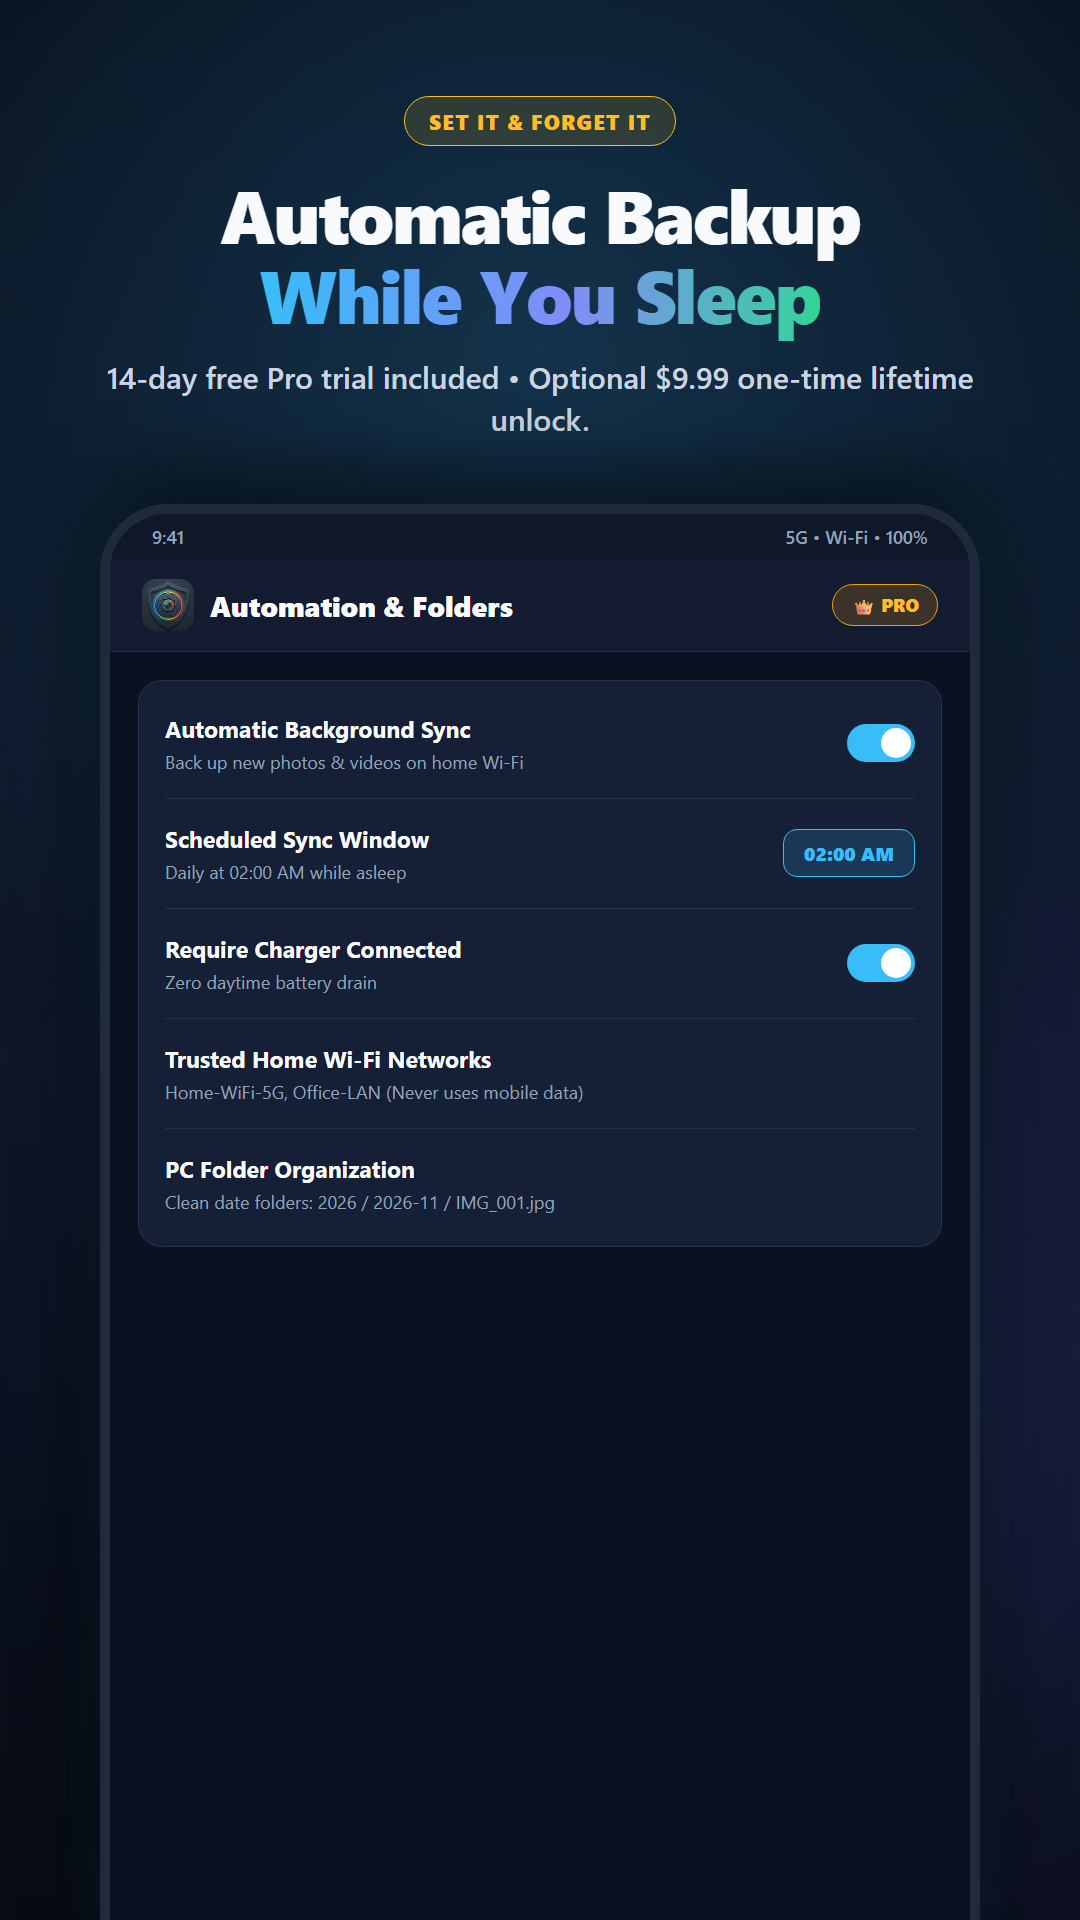
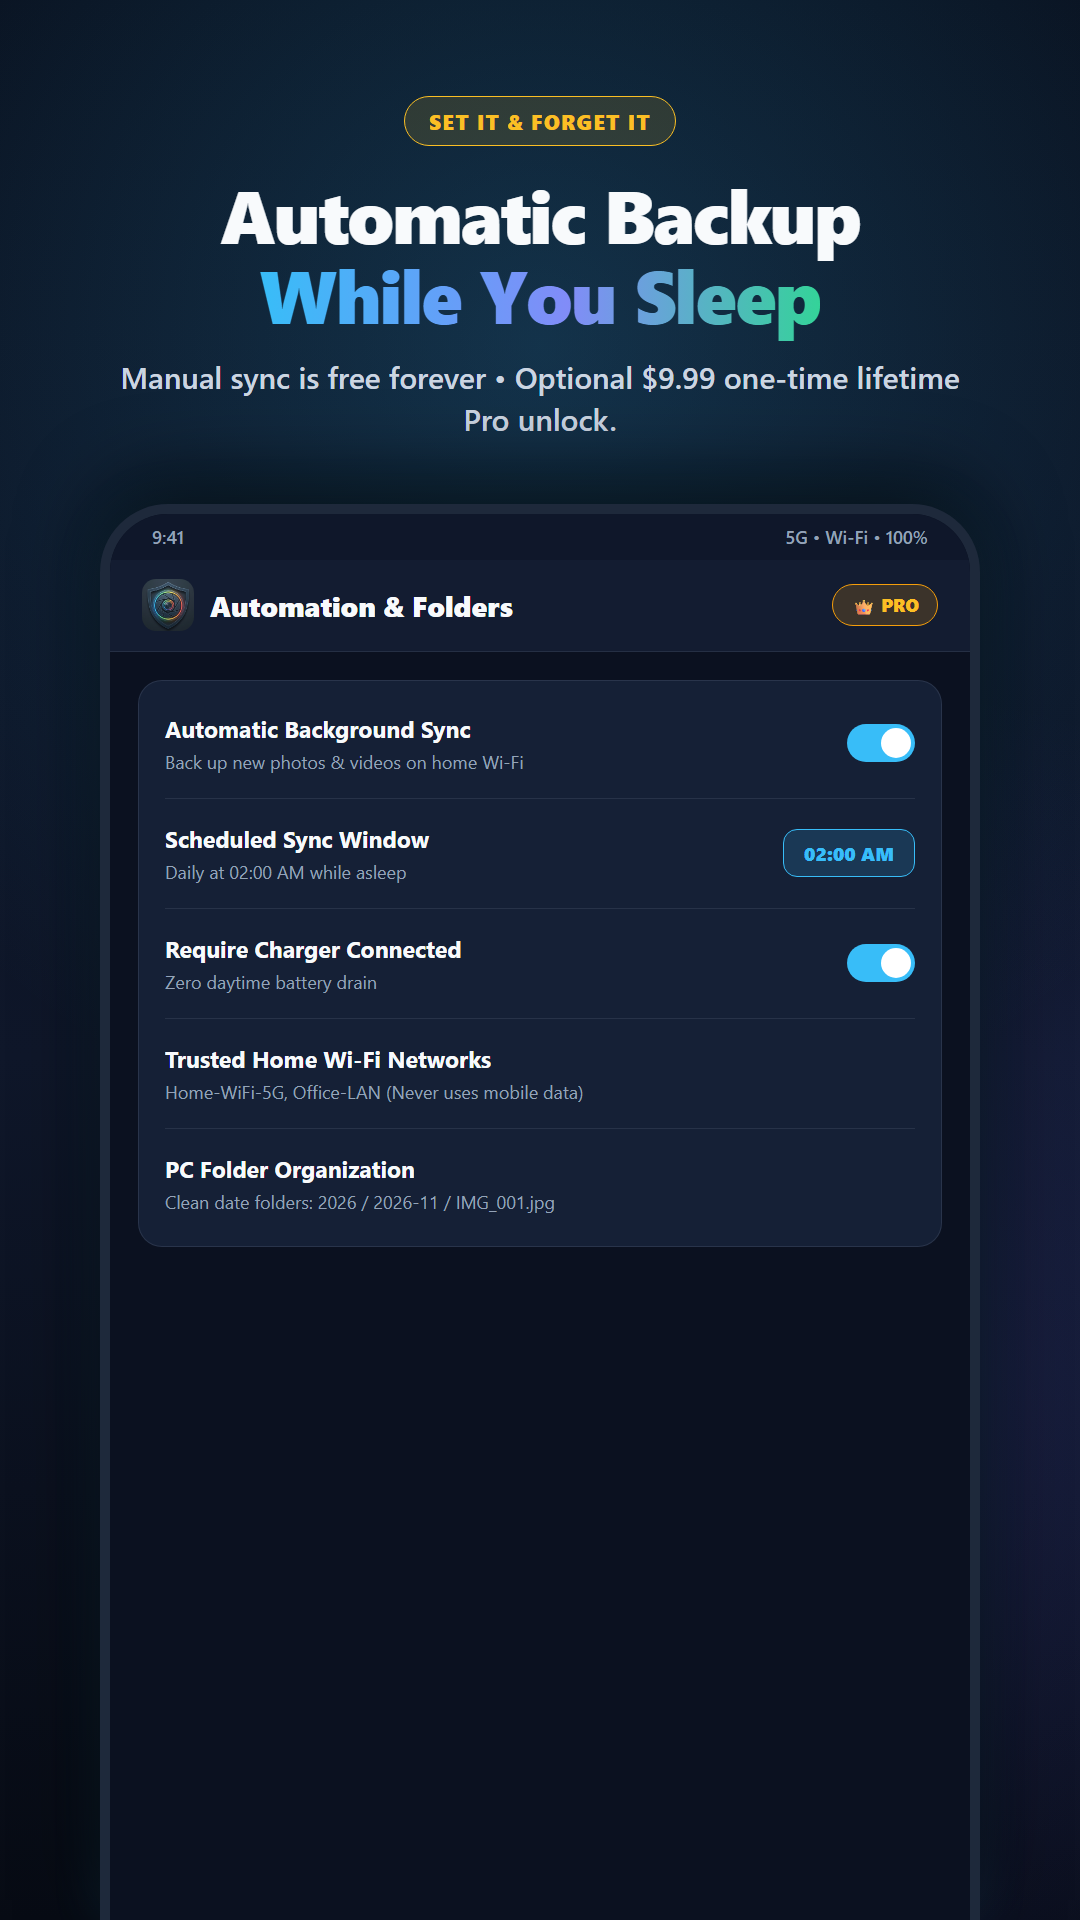
chore(web): remove 14-day trial copy from landing page and store graphics

Changed region(s): [[0.0917, 0.1875, 0.8861, 0.25]]

diff --git a/index.html b/index.html
@@ -4,7 +4,7 @@
     <meta charset="UTF-8">
     <meta name="viewport" content="width=device-width, initial-scale=1.0, maximum-scale=5.0, viewport-fit=cover">
     <title>SnapHaven — Wi-Fi Photo &amp; 4K Video Backup Straight to Your PC or Mac</title>
-    <meta name="description" content="Back up full-resolution phone photos and 4K videos straight to your Windows PC, Mac, or NAS over encrypted home Wi-Fi in 60 seconds. No Docker needed, zero cloud fees, 14-day free Pro trial.">
+    <meta name="description" content="Back up full-resolution phone photos and 4K videos straight to your Windows PC, Mac, or NAS over encrypted home Wi-Fi in 60 seconds. No Docker needed, zero cloud subscription fees.">
     <meta name="keywords" content="transfer photos to pc wifi, phone photo backup to computer, backup iphone photos to windows pc, android photo sync to pc, local photo backup no cloud, immich external library sync">
     
     <!-- Open Graph / Facebook / Twitter -->
@@ -67,7 +67,7 @@
                         <span>🛡 No Cloud • No Docker Required</span>
                     </span>
                     <a href="https://play.google.com/store/apps/details?id=app.snaphaven" target="_blank" rel="noopener noreferrer" class="badge-tag badge-emerald" style="cursor: pointer; border: none; font-family: inherit; text-decoration: none;">
-                        <span>🎁 14-Day Free Pro Trial on Google Play</span>
+                        <span>🟢 Now Live on Google Play</span>
                     </a>
                     <a href="#android-app" class="badge-tag badge-amber" style="cursor: pointer; border: none; font-family: inherit; text-decoration: none;">
                         <span>🍏 iOS Coming Soon</span>
@@ -264,10 +264,10 @@
                 </div>
 
                 <div class="pricing-box">
-                    <div class="pricing-badge">14-Day Free Trial • Lifetime Pro</div>
+                    <div class="pricing-badge">Lifetime Pro License</div>
                     <h3 style="font-size: 1.8rem; margin-top: 10px;">One-Time Purchase</h3>
                     <div class="price-display">$9.99</div>
-                    <div class="price-subtext">Try every Pro feature free for 14 days (no credit card) • Pay once to keep forever</div>
+                    <div class="price-subtext">Manual sync is free forever • Pay once for Pro • Zero subscriptions</div>
                     
                     <ul style="list-style: none; max-width: 480px; margin: 30px auto; text-align: left; display: grid; gap: 14px; font-size: 0.95rem;">
                         <li style="display: flex; align-items: center; gap: 10px;">
@@ -285,7 +285,7 @@
                     </ul>
 
                     <a href="download.html" class="btn btn-primary btn-rainbow" style="width: 100%; max-width: 360px; padding: 14px;">
-                        <span>Start Your Free 14-Day Pro Trial</span>
+                        <span>Get Started Free Today</span>
                     </a>
                 </div>
             </div>
